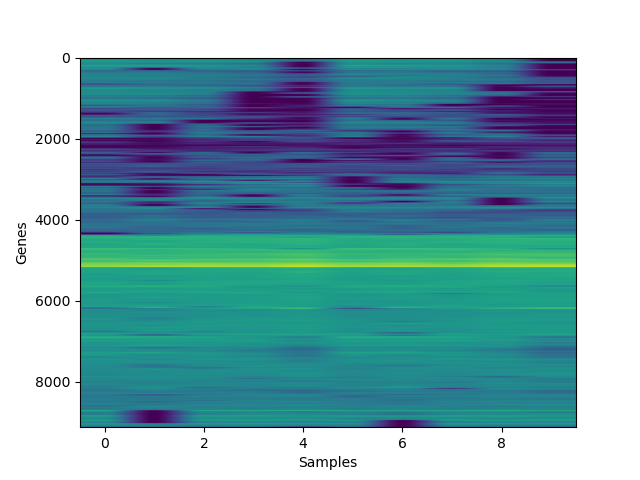
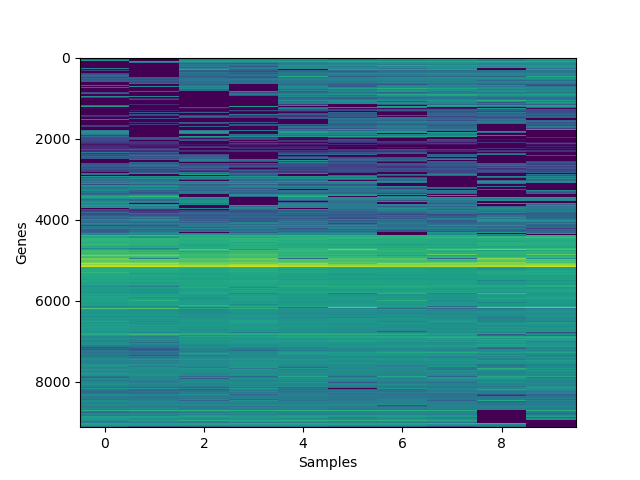
fixed sorting

diff --git a/week9-homework/RNA_analysis.py b/week9-homework/RNA_analysis.py
@@ -24,25 +24,25 @@ row_names_kept=row_names[roi]
 fpkm_transform=np.log2(fpkm+0.1)
 fpkm_transform_transpose=fpkm_transform.T
 
-# linkage_col=scipy.cluster.hierarchy.linkage(fpkm_transform, method="ward")
-# leaves_col=scipy.cluster.hierarchy.leaves_list(linkage_col)
-# linkage_row=scipy.cluster.hierarchy.linkage(fpkm_transform_transpose, method="ward")
-# leaves_row=scipy.cluster.hierarchy.leaves_list(linkage_row)
-#
-# row_sorted=fpkm_transform[:,leaves_row]
-# full_sorted=fpkm_transform[leaves_col,:]
-# fig, ax = plt.subplots()
-# ax.imshow(full_sorted, aspect='auto')
-# ax.set_xlabel("Samples")
-# ax.set_ylabel("Genes")
-# plt.savefig("heatmap.png")
-# plt.close(fig)
-#
-# fig= plt.figure(figsize=(25, 10))
-# dn=scipy.cluster.hierarchy.dendrogram(linkage_row)
-# fig.suptitle("Sample Relatedness")
-# plt.savefig("dendrogram.png")
-# plt.close(fig)
+linkage_col=scipy.cluster.hierarchy.linkage(fpkm_transform, method="ward")
+leaves_col=scipy.cluster.hierarchy.leaves_list(linkage_col)
+linkage_row=scipy.cluster.hierarchy.linkage(fpkm_transform_transpose, method="ward")
+leaves_row=scipy.cluster.hierarchy.leaves_list(linkage_row)
+
+row_sorted=fpkm_transform[:,leaves_row]
+full_sorted=row_sorted[leaves_col,:]
+fig, ax = plt.subplots()
+ax.imshow(full_sorted,interpolation="nearest", aspect='auto')
+ax.set_xlabel("Samples")
+ax.set_ylabel("Genes")
+plt.savefig("heatmap.png")
+plt.close(fig)
+
+fig= plt.figure(figsize=(25, 10))
+dn=scipy.cluster.hierarchy.dendrogram(linkage_row)
+fig.suptitle("Sample Relatedness")
+plt.savefig("dendrogram.png")
+plt.close(fig)
 
 sexes=[]
 stages=[]
@@ -51,7 +51,7 @@ for l in col_names[1:]:
     stages.append(l.split('_')[1])
 
 betas=[]
-pvalues=[]    
+pvalues=[]
 for i in range(fpkm_transform.shape[0]):
     list_of_tuples=[]
     for j in range(len(col_names)-1):
@@ -60,7 +60,7 @@ for i in range(fpkm_transform.shape[0]):
     model=smf.ols(formula="fpkm ~ stage", data=longdf).fit()
     pvalues.append(model.pvalues["stage"])
     betas.append(model.params["stage"])
-    
+
 fig,ax = plt.subplots()
 sm.qqplot(np.array(pvalues), dist=scipy.stats.uniform, line='45')
 plt.tight_layout()
@@ -72,7 +72,7 @@ significant=row_names_kept[multitest[0]]
 print(significant)
 
 betas2=[]
-pvalues2=[]    
+pvalues2=[]
 for i in range(fpkm_transform.shape[0]):
     list_of_tuples=[]
     for j in range(len(col_names)-1):
@@ -101,7 +101,7 @@ for i,pval in enumerate(pvalues2):
     else:
         pvalnotsig.append(-np.log10(pval))
         betanotsig.append(betas2[i])
-        
+
 fig,ax=plt.subplots()
 ax.scatter(betasig, pvalsig)
 ax.scatter(betanotsig, pvalnotsig)
